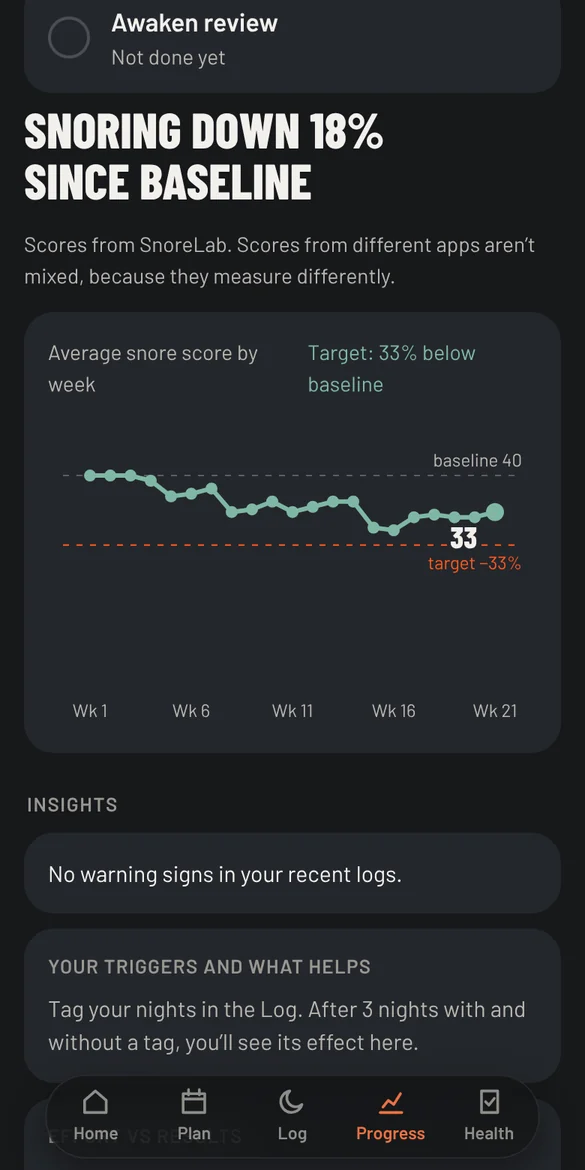
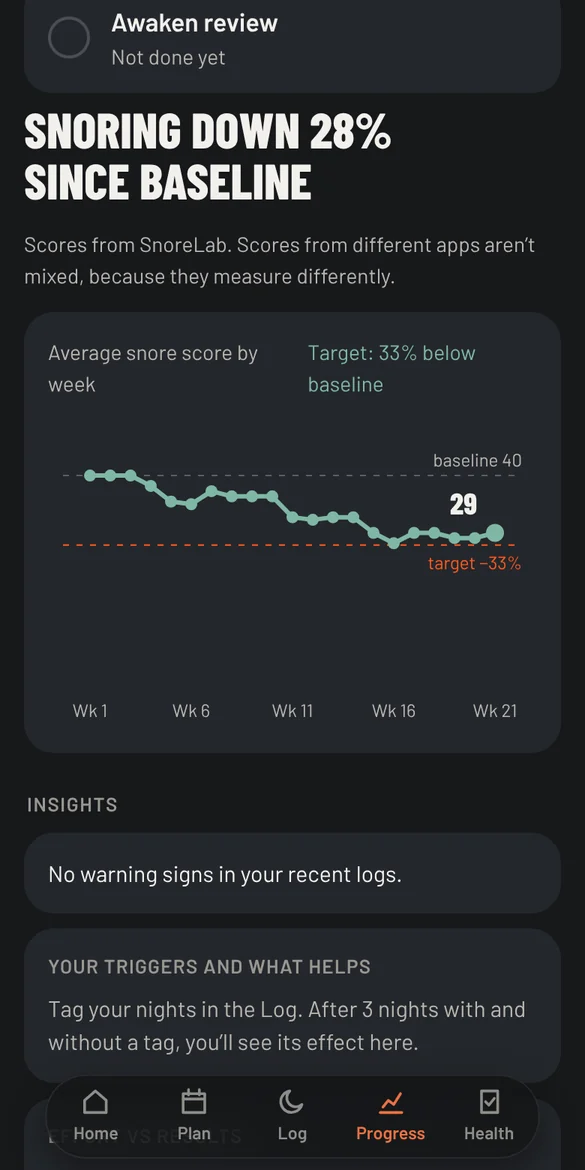
App preview: example scores now end close to the target, by an uneven path
Claude-Session: https://claude.ai/code/session_01Hr1Vhy7JFwF6pmfEZcUMyD

Changed region(s): [[0.2462, 0.4, 0.8615, 0.4923], [0.5231, 0.0923, 0.6769, 0.1538]]

diff --git a/index.html b/index.html
@@ -311,8 +311,8 @@
     <div class="arrows"><button type="button" id="prev" aria-label="Previous screen">←</button><button type="button" id="next" aria-label="Next screen">→</button></div>
   </div>
   <div class="rail" id="rail" tabindex="0" role="group" aria-label="Screens from the app">
-    <figure class="shot"><div class="phone"><img src="img/app-day.webp" width="585" height="1170" loading="lazy" alt="The app's Today screen showing a snore score of 33, marked as improving and 18% below the starting point, with the day's sessions listed and a reminder to keep using CPAP every night. Example data."></div><figcaption><b>Daily training guidance</b><span>Your snore score and each day’s sessions, in order. <i>Example data.</i></span></figcaption></figure>
-    <figure class="shot"><div class="phone"><img src="img/app-progress.webp" width="585" height="1170" loading="lazy" alt="The Progress screen with a chart of average snore score by week over 21 weeks, falling gradually from a baseline of 40 to 33, with a dashed target line 33% below baseline. Example data."></div><figcaption><b>Your snore score over time</b><span>Weekly averages against your own baseline. <i>Example data.</i></span></figcaption></figure>
+    <figure class="shot"><div class="phone"><img src="img/app-day.webp" width="585" height="1170" loading="lazy" alt="The app's Today screen showing a snore score in the high twenties, marked as improving and 28% below the starting point, with the day's sessions listed and a reminder to keep using CPAP every night. Example data."></div><figcaption><b>Daily training guidance</b><span>Your snore score and each day’s sessions, in order. <i>Example data.</i></span></figcaption></figure>
+    <figure class="shot"><div class="phone"><img src="img/app-progress.webp" width="585" height="1170" loading="lazy" alt="The Progress screen with a chart of average snore score by week over 21 weeks, falling unevenly from a baseline of 40 to 29, close to a dashed target line 33% below baseline. Example data."></div><figcaption><b>Your snore score over time</b><span>Weekly averages against your own baseline. <i>Example data.</i></span></figcaption></figure>
     <figure class="shot"><div class="phone"><img src="img/app-routine.webp" width="585" height="1170" loading="lazy" alt="The airway routine player showing the tongue press exercise with an airway drawing, numbered steps and a note on where you should feel it."></div><figcaption><b>Exercise demonstrations</b><span>Step-by-step drawings and cues for every move.</span></figcaption></figure>
     <figure class="shot"><div class="phone"><img src="img/app-plan.webp" width="585" height="1170" loading="lazy" alt="The Plan screen showing the four stages across 52 weeks and a monthly calendar with milestone days marked."></div><figcaption><b>The 52-week structure</b><span>Four stages, a calendar and milestones.</span></figcaption></figure>
     <figure class="shot"><div class="phone"><img src="img/app-level.webp" width="585" height="1170" loading="lazy" alt="The Training level screen with separate Strength and Cardio choices of Foundation, Standard and Advanced, and a recommendation with its reasons."></div><figcaption><b>Your training level</b><span>Strength and cardio set separately.</span></figcaption></figure>
